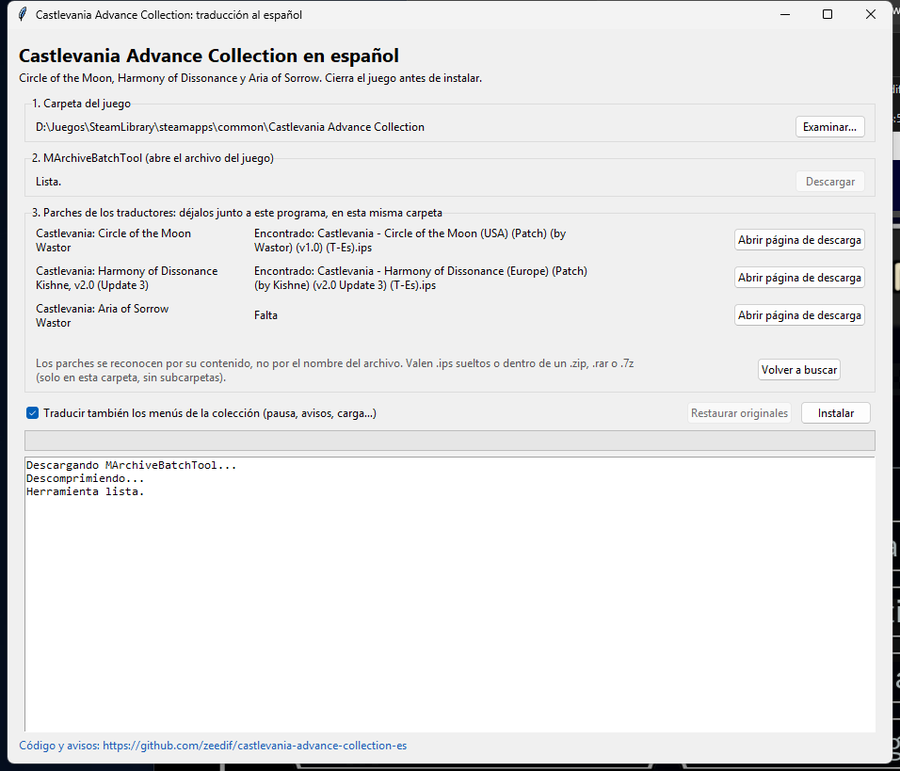
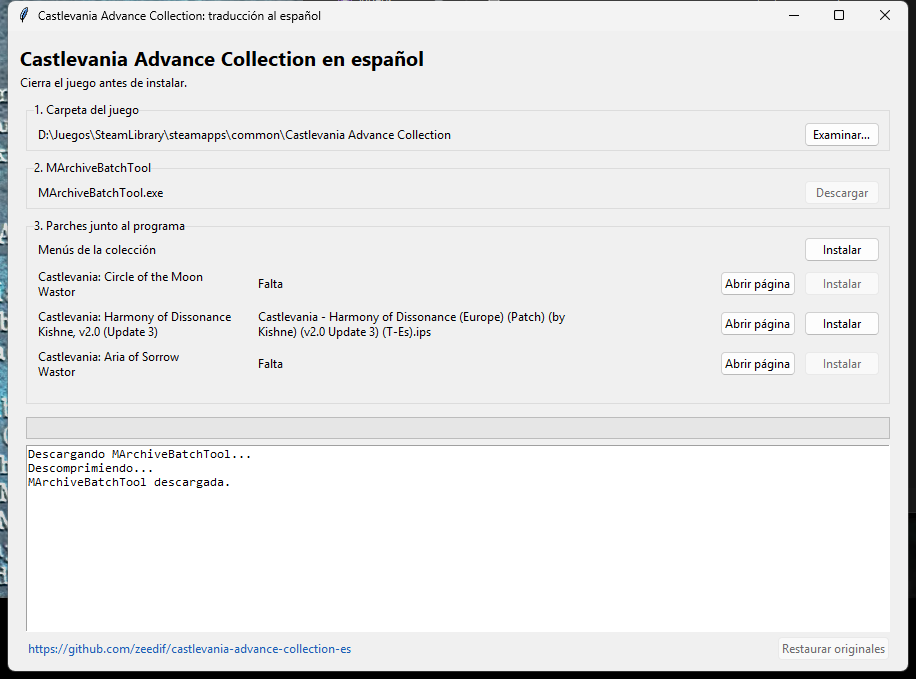
Instalación por partes y ventana sin textos de relleno
Cada traducción (menús, Circle, Harmony, Aria) tiene su botón Instalar y se
puede instalar en cuanto se detecta su parche. El registro se va acumulando.
La carpeta se vuelve a revisar al volver a la ventana, así que ya no hace
falta «Volver a buscar». Se quitan las explicaciones de la ventana y los
cuadros de confirmación. README y captura actualizados.

diff --git a/instalar.py b/instalar.py
@@ -240,7 +240,7 @@ def descargar_herramienta(progress=None):
         raise InstallError("La descarga no contiene MArchiveBatchTool.")
     if os.name != "nt":
         os.chmod(t, 0o755)
-    log("Herramienta lista.")
+    log("MArchiveBatchTool descargada.")
     return t
 
 
@@ -322,17 +322,20 @@ def instalar(juego, tool, parches, datos, menus=True):
     windata = os.path.join(juego, DATA_DIR)
     bin_p, idx_p = os.path.join(windata, "alldata.bin"), os.path.join(windata, "alldata.psb.m")
     os.makedirs(BACKUP, exist_ok=True)
+    nueva_copia = False
     for p in (bin_p, idx_p):
         dst = os.path.join(BACKUP, os.path.basename(p))
         if not os.path.exists(dst):
             shutil.copy2(p, dst)
-            log("Copia de seguridad guardada en la carpeta 'backup'.")
+            nueva_copia = True
+    if nueva_copia:
+        log("Copia de seguridad guardada en la carpeta 'backup'.")
     work = tempfile.mkdtemp(prefix="cvadv_")
     suelto = os.path.join(windata, "alldata.psb")           # la herramienta lo deja junto al índice al abrirlo
     habia_suelto = os.path.exists(suelto)
     try:
         raw = os.path.join(work, "raw")
-        log("Abriendo el archivo del juego (puede tardar un par de minutos)...")
+        log("Abriendo el archivo del juego...")
         run_tool(tool, "archive", "extract", "--codec", "zlib", "--seed", SEED, "--keyLength", KEYLEN, idx_p, raw)
         for clave, parche in parches.items():
             cfg = JUEGOS[clave]
@@ -396,10 +399,13 @@ def restaurar(juego):
 
 
 def resumen_final(claves):
-    log("\nListo. En el juego, abre «Versión del juego» (el icono del globo al final del menú) y elige:")
+    if not claves:
+        return
+    log("\nEn «Versión del juego» (el icono del globo, al final del carrusel) elige:")
     for k in claves:
         log("  • %s: versión %s" % (JUEGOS[k]['nombre'], JUEGOS[k]['version']))
-    log("En Aria of Sorrow, elige «Español» en su pantalla de idioma.")
+    if 'aria' in claves:
+        log("En Aria of Sorrow, elige «Español» en su pantalla de idioma.")
 
 
 # ------------------------------------------------------------------ interfaz gráfica
@@ -418,64 +424,68 @@ def run_gui():
             pass
     root = tk.Tk()
     root.title("Castlevania Advance Collection: traducción al español")
-    root.geometry("940x780")
-    root.minsize(820, 640)
-    st = {'juego': None, 'tool': None, 'parches': {}, 'busy': False, 'manual': None}
+    root.geometry("900x640")
+    root.minsize(780, 520)
+    st = {'juego': None, 'tool': None, 'parches': {}, 'unk': [], 'busy': False, 'manual': None, 'firma': None}
     pad = dict(padx=8, pady=4)
     style = ttk.Style()
     try:
         style.theme_use("vista" if os.name == "nt" else "clam")
     except tk.TclError:
         pass
+    try:
+        import menus_es  # noqa
+        hay_menus = True
+    except ImportError:
+        hay_menus = False
 
     frm = ttk.Frame(root, padding=10); frm.pack(fill="both", expand=True)
     ttk.Label(frm, text="Castlevania Advance Collection en español", font=("Segoe UI", 15, "bold")).pack(anchor="w")
-    ttk.Label(frm, text="Circle of the Moon, Harmony of Dissonance y Aria of Sorrow. Cierra el juego antes de instalar.").pack(anchor="w", pady=(0, 6))
+    ttk.Label(frm, text="Cierra el juego antes de instalar.").pack(anchor="w", pady=(0, 6))
 
     f1 = ttk.LabelFrame(frm, text="1. Carpeta del juego"); f1.pack(fill="x", **pad)
     v_game = tk.StringVar()
-    ttk.Label(f1, textvariable=v_game, wraplength=700).pack(side="left", padx=8, pady=6, fill="x", expand=True)
+    ttk.Label(f1, textvariable=v_game, wraplength=680).pack(side="left", padx=8, pady=6, fill="x", expand=True)
     ttk.Button(f1, text="Examinar…", command=lambda: elegir_juego()).pack(side="right", padx=8)
 
-    f2 = ttk.LabelFrame(frm, text="2. MArchiveBatchTool (abre el archivo del juego)"); f2.pack(fill="x", **pad)
+    f2 = ttk.LabelFrame(frm, text="2. MArchiveBatchTool"); f2.pack(fill="x", **pad)
     v_tool = tk.StringVar()
-    ttk.Label(f2, textvariable=v_tool, wraplength=700).pack(side="left", padx=8, pady=6, fill="x", expand=True)
+    ttk.Label(f2, textvariable=v_tool, wraplength=680).pack(side="left", padx=8, pady=6, fill="x", expand=True)
     b_tool = ttk.Button(f2, text="Descargar", command=lambda: descargar()); b_tool.pack(side="right", padx=8)
 
-    f3 = ttk.LabelFrame(frm, text="3. Parches de los traductores: déjalos junto a este programa, en esta misma carpeta")
+    f3 = ttk.LabelFrame(frm, text="3. Parches junto al programa")
     f3.pack(fill="x", **pad)
     f3.columnconfigure(1, weight=1)
-    rows = {}
-    for i, (k, cfg) in enumerate(JUEGOS.items()):
-        ttk.Label(f3, text="%s\n%s" % (cfg['nombre'], cfg['autor']), width=36).grid(row=i, column=0, sticky="w", padx=8, pady=3)
-        v = tk.StringVar()
-        ttk.Label(f3, textvariable=v, wraplength=360).grid(row=i, column=1, sticky="w", padx=4)
-        ttk.Button(f3, text="Abrir página de descarga", command=lambda u=cfg['web']: webbrowser.open(u)).grid(row=i, column=2, padx=8)
-        rows[k] = v
+    rows, b_inst = {}, {}
+    claves = (["menus"] if hay_menus else []) + list(JUEGOS)
+    for i, k in enumerate(claves):
+        if k == "menus":
+            ttk.Label(f3, text="Menús de la colección", width=34).grid(row=i, column=0, sticky="w", padx=8, pady=5)
+        else:
+            cfg = JUEGOS[k]
+            ttk.Label(f3, text="%s\n%s" % (cfg['nombre'], cfg['autor']), width=34).grid(row=i, column=0, sticky="w", padx=8, pady=3)
+            v = tk.StringVar()
+            ttk.Label(f3, textvariable=v, wraplength=330).grid(row=i, column=1, sticky="w", padx=4)
+            ttk.Button(f3, text="Abrir página", command=lambda u=cfg['web']: webbrowser.open(u)).grid(row=i, column=2, padx=4)
+            rows[k] = v
+        b = ttk.Button(f3, text="Instalar", command=lambda k=k: instalar_click(k)); b.grid(row=i, column=3, padx=(4, 8))
+        b_inst[k] = b
     v_unk = tk.StringVar()
-    ttk.Label(f3, textvariable=v_unk, foreground="#a33", wraplength=640).grid(row=len(JUEGOS), column=0, columnspan=2, sticky="w", padx=8)
-    ttk.Label(f3, text="Los parches se reconocen por su contenido, no por el nombre del archivo. Valen .ips sueltos o dentro de un .zip, .rar o .7z (solo en esta carpeta, sin subcarpetas).",
-              foreground="#555", wraplength=640).grid(row=len(JUEGOS) + 1, column=0, columnspan=2, sticky="w", padx=8, pady=(2, 6))
-    b_scan = ttk.Button(f3, text="Volver a buscar", command=lambda: refrescar()); b_scan.grid(row=len(JUEGOS) + 1, column=2, padx=8, pady=(2, 6))
+    ttk.Label(f3, textvariable=v_unk, foreground="#a33", wraplength=640).grid(row=len(claves), column=0, columnspan=4, sticky="w", padx=8)
 
-    f4 = ttk.Frame(frm); f4.pack(fill="x", **pad)
-    v_menus = tk.BooleanVar(value=True)
-    try:
-        import menus_es  # noqa
-        ttk.Checkbutton(f4, text="Traducir también los menús de la colección (pausa, avisos, carga…)", variable=v_menus).pack(side="left")
-    except ImportError:
-        v_menus.set(False)
-    b_inst = ttk.Button(f4, text="Instalar", command=lambda: instalar_click()); b_inst.pack(side="right", padx=4)
-    v_menus.trace_add("write", lambda *_: refrescar())
-    b_rest = ttk.Button(f4, text="Restaurar originales", command=lambda: restaurar_click()); b_rest.pack(side="right", padx=4)
-
-    prog = ttk.Progressbar(frm, mode="determinate", maximum=100); prog.pack(fill="x", padx=8, pady=2)
+    prog = ttk.Progressbar(frm, mode="determinate", maximum=100); prog.pack(fill="x", padx=8, pady=(8, 2))
     txt = tk.Text(frm, height=10, wrap="word", state="disabled", font=("Consolas", 9)); txt.pack(fill="both", expand=True, **pad)
-    a = ttk.Label(frm, text="Código y avisos: " + REPO_URL, foreground="#1a5fb4", cursor="hand2"); a.pack(anchor="w")
+    f4 = ttk.Frame(frm); f4.pack(fill="x", padx=8)
+    a = ttk.Label(f4, text=REPO_URL, foreground="#1a5fb4", cursor="hand2"); a.pack(side="left")
     a.bind("<Button-1>", lambda e: webbrowser.open(REPO_URL))
+    b_rest = ttk.Button(f4, text="Restaurar originales", command=lambda: restaurar_click()); b_rest.pack(side="right")
 
     def put(msg):
         txt.configure(state="normal"); txt.insert("end", msg + "\n"); txt.see("end"); txt.configure(state="disabled")
+
+    def sep():
+        if txt.get("1.0", "end").strip():
+            put("")
 
     def pump():
         try:
@@ -488,29 +498,44 @@ def run_gui():
             pass
         root.after(100, pump)
 
-    def set_busy(b):
-        st['busy'] = b
-        for w in (b_inst, b_rest, b_scan, b_tool):
-            w.configure(state="disabled" if b else "normal")
-        if b:
-            prog.configure(mode="indeterminate"); prog.start(12)
-        else:
-            prog.stop(); prog.configure(mode="determinate", value=0)
+    def firma():
+        out = []
+        try:
+            for f in sorted(os.listdir(APP_DIR)):
+                if f.lower().endswith((".ips", ".zip", ".rar", ".7z")):
+                    s = os.stat(os.path.join(APP_DIR, f))
+                    out.append((f, s.st_size, s.st_mtime_ns))
+        except OSError:
+            pass
+        return tuple(out)
 
     def refrescar():
         st['juego'] = find_juego(st['manual'])
-        v_game.set(st['juego'] or "No se encontró. Pulsa «Examinar» y elige la carpeta de Castlevania Advance Collection.")
+        v_game.set(st['juego'] or "Falta")
         st['tool'] = find_tool()
-        v_tool.set("Lista." if st['tool'] else "No se encontró. Pulsa «Descargar» (se baja de GitHub, unos 70 MB) o déjala junto a este programa.")
+        v_tool.set(os.path.basename(st['tool']) if st['tool'] else "Falta")
         b_tool.configure(state="disabled" if st['tool'] else "normal")
-        st['parches'], unk = buscar_parches(datos)
+        f = firma()
+        if f != st['firma']:                                  # los archivos de la carpeta cambiaron (o es la primera vez)
+            st['firma'] = f
+            st['parches'], st['unk'] = buscar_parches(datos)
         for k, v in rows.items():
             p = st['parches'].get(k)
-            v.set(("Encontrado: " + p.label) if p else "Falta")
-        v_unk.set(("Archivos .ips que no coinciden con ninguna versión conocida (se ignoran): " + ", ".join(unk)) if unk else "")
-        listo = bool(st['juego'] and st['tool'] and (st['parches'] or v_menus.get()))
-        b_inst.configure(state="normal" if listo else "disabled")
-        b_rest.configure(state="normal" if st['juego'] and os.path.isfile(os.path.join(BACKUP, "alldata.bin")) else "disabled")
+            v.set(p.label if p else "Falta")
+        v_unk.set("Sin reconocer: " + ", ".join(st['unk']) if st['unk'] else "")
+        base = bool(st['juego'] and st['tool'] and not st['busy'])
+        for k, b in b_inst.items():
+            b.configure(state="normal" if base and (k == "menus" or k in st['parches']) else "disabled")
+        b_rest.configure(state="normal" if st['juego'] and not st['busy'] and os.path.isfile(os.path.join(BACKUP, "alldata.bin")) else "disabled")
+
+    def set_busy(b):
+        st['busy'] = b
+        if b:
+            for w in list(b_inst.values()) + [b_rest, b_tool]:
+                w.configure(state="disabled")
+            prog.configure(mode="indeterminate"); prog.start(12)
+        else:
+            prog.stop(); prog.configure(mode="determinate", value=0)
 
     def elegir_juego():
         d = filedialog.askdirectory(title="Carpeta de Castlevania Advance Collection")
@@ -536,28 +561,26 @@ def run_gui():
         refrescar()
         if err:
             put("\n¡Error! " + err); messagebox.showerror("No se pudo completar", err[:600])
-        else:
-            messagebox.showinfo("Listo", "Proceso terminado. Revisa el registro para los siguientes pasos.")
 
     def descargar():
         worker(lambda: descargar_herramienta(lambda f: q.put(("prog", f))))
 
-    def instalar_click():
-        sel = dict(st['parches'])
-        partes = ["%d traducción(es) de juego" % len(sel)] if sel else []
-        if v_menus.get():
-            partes.append("los menús de la colección")
-        if not messagebox.askyesno("Instalar", "Se va a reconstruir el archivo del juego con %s.\nSe guarda una copia de seguridad junto a este programa.\n\n¿Continuar?" % " y ".join(partes)):
-            return
+    def instalar_click(k):
         def job():
-            instalar(st['juego'], st['tool'], sel, datos, menus=v_menus.get())
-            resumen_final(list(sel))
+            if k == "menus":
+                instalar(st['juego'], st['tool'], {}, datos, menus=True)
+            else:
+                instalar(st['juego'], st['tool'], {k: st['parches'][k]}, datos, menus=False)
+                resumen_final([k])
+        sep()
         worker(job)
 
     def restaurar_click():
-        if messagebox.askyesno("Restaurar", "Se devuelven los archivos originales guardados en la carpeta «backup». ¿Continuar?"):
+        if messagebox.askyesno("Restaurar", "Se pierden las traducciones instaladas. ¿Restaurar los archivos originales?"):
+            sep()
             worker(lambda: restaurar(st['juego']))
 
+    root.bind("<FocusIn>", lambda e: e.widget is root and not st['busy'] and refrescar())
     refrescar(); pump()
     root.mainloop()
 

diff --git a/README.md b/README.md
@@ -6,12 +6,10 @@ Instalador con interfaz gráfica que deja **Castlevania Advance Collection** (St
 
 ## Qué hace
 
-1. Abre el archivo de datos del juego (`alldata.bin`) con [MArchiveBatchTool](https://github.com/farmerbb/RED-Project/releases/tag/tools) (el instalador la descarga solo si no la tienes).
-2. Aplica los parches `.ips` de los traductores a las ROMs de GBA que lleva la colección. Los parches de *Harmony* y *Aria* chocan con dos bloques de código que Konami añadió a esas ROMs, así que antes se reubican (se comprueba byte a byte que el resultado es el mismo que aplicar el parche sobre la ROM original).
-3. Traduce los menús de la colección: imágenes con texto ya dibujado (menú de pausa, nombres de áreas, controles, enciclopedia, carrusel, historias de cada juego, carga…), textos de los menús y avisos, y las tildes y la ñ de las fuentes del juego.
-4. Reconstruye el archivo del juego. Antes guarda una **copia de seguridad** de los dos archivos originales en la carpeta `backup`, junto al instalador.
+Cada instalación abre el archivo de datos del juego (`alldata.bin`) con [MArchiveBatchTool](https://github.com/farmerbb/RED-Project/releases/tag/tools), cambia lo que le toca y lo reconstruye. La primera vez guarda una **copia de seguridad** de los dos archivos originales en la carpeta `backup`, junto al instalador.
 
-Todo ocurre en tu equipo y sobre tus propios archivos; en el repositorio solo hay código y los textos/imágenes en español dibujados desde cero.
+- **Cada juego**: aplica el parche `.ips` del traductor a la ROM de GBA que lleva la colección. Los parches de *Harmony* y *Aria* chocan con dos bloques de código que Konami añadió a esas ROMs, así que antes se reubican (se comprueba byte a byte que el resultado es el mismo que aplicar el parche sobre la ROM original).
+- **Menús de la colección**: imágenes con texto ya dibujado (menú de pausa, nombres de áreas, controles, enciclopedia, carrusel, historias de cada juego, carga…), textos de los menús y avisos, y las tildes y la ñ de las fuentes del juego.
 
 | Menú de pausa | Ajustes de controles |
 |---|---|
@@ -21,7 +19,7 @@ Todo ocurre en tu equipo y sobre tus propios archivos; en el repositorio solo ha
 
 - Windows 10/11 (en Linux o Steam Deck debería funcionar con Python, ver más abajo; sin probar).
 - **Castlevania Advance Collection** de Steam, versión 1.0.0, sin modificar. Si ya la tocaste, usa *Propiedades → Archivos instalados → Verificar la integridad de los archivos del juego* en Steam.
-- Los parches de traducción (se reconocen **por su contenido**, el nombre del archivo da igual):
+- Los parches de traducción:
 
 | Juego | Traducción | Dónde conseguirla |
 |---|---|---|
@@ -29,16 +27,13 @@ Todo ocurre en tu equipo y sobre tus propios archivos; en el repositorio solo ha
 | Castlevania: Harmony of Dissonance (versión europea) | Kishne, v2.0 (Update 3) | [MediaFire](https://www.mediafire.com/download/6cts4vbaath6sa7/Castlevania+-+Harmony+of+Dissonance+2.0+%28Update+3%29+~+By+Kishne.rar) |
 | Castlevania: Aria of Sorrow (versión europea) | Wastor, v1.0 | [wastor.romhackhispano.org/castlevania-aria-of-sorrow](https://wastor.romhackhispano.org/castlevania-aria-of-sorrow/) |
 
-No hace falta instalar los tres: el instalador usa los que encuentre.
-
 ## Cómo se usa
 
 1. Descarga `CastlevaniaAdvanceES.exe` de la [última versión](../../releases/latest) y ponlo en una carpeta propia, por ejemplo `Escritorio\CastlevaniaES`.
-2. **Deja en esa misma carpeta** los parches que descargaste (los `.ips`, o el `.zip`/`.rar`/`.7z` tal cual los bajaste). No hace falta descomprimir ni crear subcarpetas, y no se buscan en otras carpetas.
-3. Cierra el juego y abre `CastlevaniaAdvanceES.exe`.
-4. El programa encuentra solo la carpeta del juego (si no, pulsa *Examinar*) y avisa de qué parches ha reconocido. Si no tienes MArchiveBatchTool, pulsa **Descargar**: se baja y se guarda junto al programa.
-5. Pulsa **Instalar**. Tarda unos 20-30 segundos.
-6. Abre el juego, entra en **Versión del juego** (el icono del globo, al final del carrusel) y elige la versión que se tradujo: *americana* para Circle of the Moon, *europea* para Harmony y Aria. En *Aria of Sorrow* elige «Español» en su pantalla de idioma.
+2. Deja en esa misma carpeta los parches (los `.ips`, o el `.zip`/`.rar`/`.7z` tal cual los bajaste).
+3. Cierra el juego y abre `CastlevaniaAdvanceES.exe`. Si falta MArchiveBatchTool, pulsa **Descargar**.
+4. Pulsa **Instalar** en cada traducción que quieras. Cada una tarda unos 20-30 segundos y el registro de la ventana las va acumulando.
+5. En el juego, entra en **Versión del juego** (el icono del globo, al final del carrusel) y elige *americana* para Circle of the Moon o *europea* para Harmony y Aria. En *Aria of Sorrow* elige «Español» en su pantalla de idioma.
 
 ![Instalador](docs/instalador.png)
 
